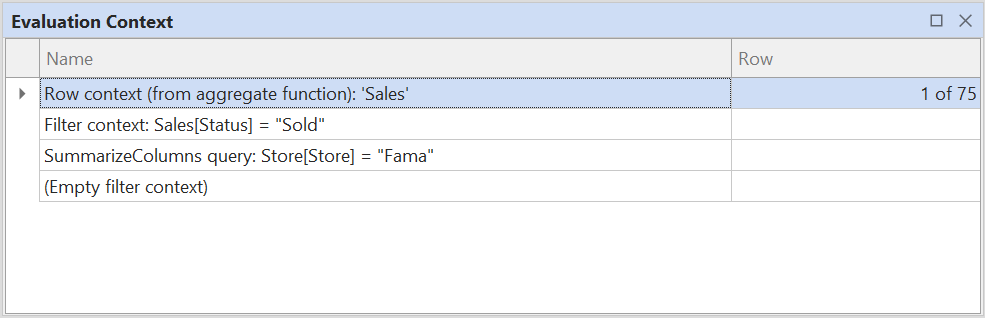
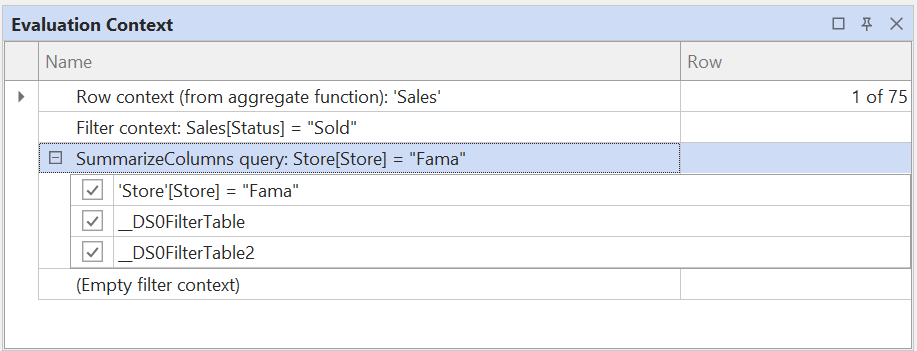
Updated docs for 3.2.2

Changed region(s): [[0.0, 0.0, 1.0, 0.9906]]

diff --git a/te3/other/downloads.md b/te3/other/downloads.md
@@ -2,7 +2,7 @@
 uid: downloads
 title: All downloads
 author: Daniel Otykier
-updated: 2021-11-23
+updated: 2022-02-16
 ---
 # Tabular Editor 3 Downloads
 
@@ -10,23 +10,27 @@ This page provides download and installation instructions for Tabular Editor 3.
 
 ## Production builds
 
-- Latest production release (x64): [TabularEditor.3.2.1.x64.msi](https://cdn.tabulareditor.com/files/TabularEditor.3.2.1.x64.msi)
-- Latest production release (x86): [TabularEditor.3.2.1.x86.msi](https://cdn.tabulareditor.com/files/TabularEditor.3.2.1.x86.msi)
-- Portable version: [TabularEditor.3.2.1.x64.zip](https://cdn.tabulareditor.com/files/TabularEditor.3.2.1.x64.zip), [TabularEditor.3.2.1.x86.zip](https://cdn.tabulareditor.com/files/TabularEditor.3.2.1.x86.zip)
+- Latest production release (x64): [TabularEditor.3.2.2.x64.msi](https://cdn.tabulareditor.com/files/TabularEditor.3.2.2.x64.msi)
+- Latest production release (x86): [TabularEditor.3.2.2.x86.msi](https://cdn.tabulareditor.com/files/TabularEditor.3.2.2.x86.msi)
+- Portable version: [TabularEditor.3.2.2.x64.zip](https://cdn.tabulareditor.com/files/TabularEditor.3.2.2.x64.zip), [TabularEditor.3.2.2.x86.zip](https://cdn.tabulareditor.com/files/TabularEditor.3.2.2.x86.zip)
 
-[Release notes for Tabular Editor 3.2.1](release-notes/3_2_1.md)
-
-If you need to change your license key, you can do so under Help > About Tabular Editor (before opening a model in Tabular Editor 3).
+Read the [latest release notes](release-notes/3_2_2.md).
 
 ## Installation Instructions
 
 1. Download the MSI file (use the x86 version if your operating system doesn't support 64-bit applications).
 2. Run the MSI file. The installation wizard will guide you through the installation.
+3. For instructions on how to activate the product or change a license key, see our [getting started guide](https://docs.tabulareditor.com/te3/getting-started.html).
 
 It is not necessary to remove previous installations when upgrading to a newer version of Tabular Editor 3.
 
 ## History
 
+- 2021-02-16 (*[Release notes](release-notes/3_2_2.md)*):
+  - [TabularEditor.3.2.2.x64.msi](https://cdn.tabulareditor.com/files/TabularEditor.3.2.2.x64.msi)
+  - [TabularEditor.3.2.2.x86.msi](https://cdn.tabulareditor.com/files/TabularEditor.3.2.2.x86.msi)
+  - [TabularEditor.3.2.2.x64.zip](https://cdn.tabulareditor.com/files/TabularEditor.3.2.2.x64.zip)
+  - [TabularEditor.3.2.2.x86.zip](https://cdn.tabulareditor.com/files/TabularEditor.3.2.2.x86.zip)
 - 2021-01-28 (*[Release notes](release-notes/3_2_1.md)*):
   - [TabularEditor.3.2.1.x64.msi](https://cdn.tabulareditor.com/files/TabularEditor.3.2.1.x64.msi)
   - [TabularEditor.3.2.1.x86.msi](https://cdn.tabulareditor.com/files/TabularEditor.3.2.1.x86.msi)
@@ -37,104 +41,5 @@ It is not necessary to remove previous installations when upgrading to a newer v
   - [TabularEditor.3.2.0.x86.msi](https://cdn.tabulareditor.com/files/TabularEditor.3.2.0.x86.msi)
   - [TabularEditor.3.2.0.x64.zip](https://cdn.tabulareditor.com/files/TabularEditor.3.2.0.x64.zip)
   - [TabularEditor.3.2.0.x86.zip](https://cdn.tabulareditor.com/files/TabularEditor.3.2.0.x86.zip)
-- 2021-12-16 (*[Release notes](release-notes/3_1_7.md)*):
-  - [TabularEditor.3.1.7.x64.msi](https://cdn.tabulareditor.com/files/TabularEditor.3.1.7.x64.msi)
-  - [TabularEditor.3.1.7.x86.msi](https://cdn.tabulareditor.com/files/TabularEditor.3.1.7.x86.msi)
-  - [TabularEditor.3.1.7.x64.zip](https://cdn.tabulareditor.com/files/TabularEditor.3.1.7.x64.zip)
-  - [TabularEditor.3.1.7.x86.zip](https://cdn.tabulareditor.com/files/TabularEditor.3.1.7.x86.zip)
-- 2021-11-23 (*[Release notes](release-notes/3_1_6.md)*):
-  - [TabularEditor.3.1.6.x64.msi](https://cdn.tabulareditor.com/files/TabularEditor.3.1.6.x64.msi)
-  - [TabularEditor.3.1.6.x86.msi](https://cdn.tabulareditor.com/files/TabularEditor.3.1.6.x86.msi)
-  - [TabularEditor.3.1.6.x64.zip](https://cdn.tabulareditor.com/files/TabularEditor.3.1.6.x64.zip)
-  - [TabularEditor.3.1.6.x86.zip](https://cdn.tabulareditor.com/files/TabularEditor.3.1.6.x86.zip)
-- 2021-11-02 (*[Release notes](release-notes/3_1_5.md)*):
-  - [TabularEditor.3.1.5.x64.msi](https://cdn.tabulareditor.com/files/TabularEditor.3.1.5.x64.msi)
-  - [TabularEditor.3.1.5.x86.msi](https://cdn.tabulareditor.com/files/TabularEditor.3.1.5.x86.msi)
-  - [TabularEditor.3.1.5.x64.zip](https://cdn.tabulareditor.com/files/TabularEditor.3.1.5.x64.zip)
-  - [TabularEditor.3.1.5.x86.zip](https://cdn.tabulareditor.com/files/TabularEditor.3.1.5.x86.zip)
-- 2021-10-07 (*[Release notes](release-notes/3_1_4.md)*):
-  - [TabularEditor.3.1.4.x64.msi](https://cdn.tabulareditor.com/files/TabularEditor.3.1.4.x64.msi)
-  - [TabularEditor.3.1.4.x86.msi](https://cdn.tabulareditor.com/files/TabularEditor.3.1.4.x86.msi)
-  - [TabularEditor.3.1.4.x64.zip](https://cdn.tabulareditor.com/files/TabularEditor.3.1.4.x64.zip)
-  - [TabularEditor.3.1.4.x86.zip](https://cdn.tabulareditor.com/files/TabularEditor.3.1.4.x86.zip)
-- 2021-09-30 (*[Release notes](release-notes/3_1_3.md)*):
-  - [TabularEditor.3.1.3.x64.msi](https://cdn.tabulareditor.com/files/TabularEditor.3.1.3.x64.msi)
-  - [TabularEditor.3.1.3.x86.msi](https://cdn.tabulareditor.com/files/TabularEditor.3.1.3.x86.msi)
-  - [TabularEditor.3.1.3.x64.zip](https://cdn.tabulareditor.com/files/TabularEditor.3.1.3.x64.zip)
-  - [TabularEditor.3.1.3.x86.zip](https://cdn.tabulareditor.com/files/TabularEditor.3.1.3.x86.zip)
-- 2021-08-10 (*[Release notes](release-notes/3_0_10.md)*):
-  - [TabularEditor.3.0.10.x64.msi](https://cdn.tabulareditor.com/files/TabularEditor.3.0.10.x64.msi)
-  - [TabularEditor.3.0.10.x86.msi](https://cdn.tabulareditor.com/files/TabularEditor.3.0.10.x86.msi)
-  - [TabularEditor.3.0.10.x64.zip](https://cdn.tabulareditor.com/files/TabularEditor.3.0.10.x64.zip)
-  - [TabularEditor.3.0.10.x86.zip](https://cdn.tabulareditor.com/files/TabularEditor.3.0.10.x86.zip)
-- 2021-08-07 (*[Release notes](release-notes/3_0_9.md)*):
-  - [TabularEditor.3.0.9.x64.msi](https://cdn.tabulareditor.com/files/TabularEditor.3.0.9.x64.msi)
-  - [TabularEditor.3.0.9.x86.msi](https://cdn.tabulareditor.com/files/TabularEditor.3.0.9.x86.msi)
-  - [TabularEditor.3.0.9.x64.zip](https://cdn.tabulareditor.com/files/TabularEditor.3.0.9.x64.zip)
-  - [TabularEditor.3.0.9.x86.zip](https://cdn.tabulareditor.com/files/TabularEditor.3.0.9.x86.zip)
-- 2021-08-06 (*[Release notes](release-notes/3_0_8.md)*):
-  - [TabularEditor.3.0.8.x64.msi](https://cdn.tabulareditor.com/files/TabularEditor.3.0.8.x64.msi)
-  - [TabularEditor.3.0.8.x86.msi](https://cdn.tabulareditor.com/files/TabularEditor.3.0.8.x86.msi)
-  - [TabularEditor.3.0.8.x64.zip](https://cdn.tabulareditor.com/files/TabularEditor.3.0.8.x64.zip)
-  - [TabularEditor.3.0.8.x86.zip](https://cdn.tabulareditor.com/files/TabularEditor.3.0.8.x86.zip)
-- 2021-06-30 (*[Release notes](release-notes/3_0_7.md)*):
-  - [TabularEditor.3.0.7.x64.msi](https://cdn.tabulareditor.com/files/TabularEditor.3.0.7.x64.msi)
-  - [TabularEditor.3.0.7.x86.msi](https://cdn.tabulareditor.com/files/TabularEditor.3.0.7.x86.msi)
-  - [TabularEditor.3.0.7.x64.zip](https://cdn.tabulareditor.com/files/TabularEditor.3.0.7.x64.zip)
-  - [TabularEditor.3.0.7.x86.zip](https://cdn.tabulareditor.com/files/TabularEditor.3.0.7.x86.zip)
-- 2021-06-17 (*[Release notes](release-notes/3_0_6.md)*):
-  - [TabularEditor.3.0.6.x64.msi](https://cdn.tabulareditor.com/files/TabularEditor.3.0.6.x64.msi)
-  - [TabularEditor.3.0.6.x86.msi](https://cdn.tabulareditor.com/files/TabularEditor.3.0.6.x86.msi)
-  - [TabularEditor.3.0.6.x64.zip](https://cdn.tabulareditor.com/files/TabularEditor.3.0.6.x64.zip)
-  - [TabularEditor.3.0.6.x86.zip](https://cdn.tabulareditor.com/files/TabularEditor.3.0.6.x86.zip)
-- 2021-06-10 (*[Release notes](release-notes/3_0_5.md)*):
-  - [TabularEditor.3.0.5.x64.msi](https://cdn.tabulareditor.com/files/TabularEditor.3.0.5.x64.msi)
-  - [TabularEditor.3.0.5.x86.msi](https://cdn.tabulareditor.com/files/TabularEditor.3.0.5.x86.msi)
-- 2021-06-08 (*[Release notes](release-notes/3_0_4.md)*):
-  - [TabularEditor.3.0.4.x64.msi](https://cdn.tabulareditor.com/files/TabularEditor.3.0.4.x64.msi)
-  - [TabularEditor.3.0.4.x86.msi](https://cdn.tabulareditor.com/files/TabularEditor.3.0.4.x86.msi)
-- 2021-06-03 (*[Release notes](release-notes/3_0_2.md)*):
-  - [TabularEditor.3.0.2.x64.msi](https://cdn.tabulareditor.com/files/TabularEditor.3.0.2.x64.msi)
-  - [TabularEditor.3.0.2.x86.msi](https://cdn.tabulareditor.com/files/TabularEditor.3.0.2.x86.msi)
-- 2021-06-01 (*[Release notes](release-notes/3_0_1.md)*):
-  - [TabularEditor.3.0.1.x64.msi](https://cdn.tabulareditor.com/files/TabularEditor.3.0.1.x64.msi)
-  - [TabularEditor.3.0.1.x86.msi](https://cdn.tabulareditor.com/files/TabularEditor.3.0.1.x86.msi)
-- 2021-05-27 (*[Release notes](release-notes/beta-18_5.md)*):
-  - [TabularEditor.3.BETA-18.5.x64.msi](https://cdn.tabulareditor.com/files/TabularEditor.3.BETA-18.5.x64.msi)
-  - [TabularEditor.3.BETA-18.5.x86.msi](https://cdn.tabulareditor.com/files/TabularEditor.3.BETA-18.5.x86.msi)
-- 2021-05-03 (*[Release notes](release-notes/beta-18_4.md)*):
-  - [TabularEditor.3.BETA-18.4.x64.msi](https://cdn.tabulareditor.com/files/TabularEditor.3.BETA-18.4.x64.msi)
-  - [TabularEditor.3.BETA-18.4.x86.msi](https://cdn.tabulareditor.com/files/TabularEditor.3.BETA-18.4.x86.msi)
-- 2021-04-27 (*[Release notes](release-notes/beta-18_3.md)*):
-  - [TabularEditor.3.BETA-18.3.x64.msi](https://cdn.tabulareditor.com/files/TabularEditor.3.BETA-18.3.x64.msi)
-  - [TabularEditor.3.BETA-18.3.x86.msi](https://cdn.tabulareditor.com/files/TabularEditor.3.BETA-18.3.x86.msi)
-- 2021-04-26 (*[Release notes](release-notes/beta-18_3.md)*):
-  - [TabularEditor.3.BETA-18.2.x64.msi](https://cdn.tabulareditor.com/files/TabularEditor.3.BETA-18.2.x64.msi)
-  - [TabularEditor.3.BETA-18.2.x86.msi](https://cdn.tabulareditor.com/files/TabularEditor.3.BETA-18.2.x86.msi)
-- 2021-04-25 (*[Release notes](release-notes/beta-18_3.md)*):
-  - [TabularEditor.3.BETA-18.1.x64.msi](https://cdn.tabulareditor.com/files/TabularEditor.3.BETA-18.1.x64.msi)
-  - [TabularEditor.3.BETA-18.1.x86.msi](https://cdn.tabulareditor.com/files/TabularEditor.3.BETA-18.1.x86.msi)
-  - [TabularEditor.3.BETA-18.0.x64.msi](https://cdn.tabulareditor.com/files/TabularEditor.3.BETA-18.0.x64.msi)
-  - [TabularEditor.3.BETA-18.0.x86.msi](https://cdn.tabulareditor.com/files/TabularEditor.3.BETA-18.0.x86.msi)
-- BETA-17.X builds - 2021-04-18-2021.03.29 (*[Release notes](release-notes/beta-17_4.md)*)
-  - [TabularEditor.3.BETA-17.4.x64.msi](https://cdn.tabulareditor.com/files/TabularEditor.3.BETA-17.4.x64.msi)
-  - [TabularEditor.3.BETA-17.4.x86.msi](https://cdn.tabulareditor.com/files/TabularEditor.3.BETA-17.4.x86.msi)
-  - [TabularEditor.3.BETA-17.3.x64.msi](https://cdn.tabulareditor.com/files/TabularEditor.3.BETA-17.3.x64.msi)
-  - [TabularEditor.3.BETA-17.3.x86.msi](https://cdn.tabulareditor.com/files/TabularEditor.3.BETA-17.3.x86.msi)
-  - [TabularEditor.3.BETA-17.2.x64.msi](https://cdn.tabulareditor.com/files/TabularEditor.3.BETA-17.2.x64.msi)
-  - [TabularEditor.3.BETA-17.2.x86.msi](https://cdn.tabulareditor.com/files/TabularEditor.3.BETA-17.2.x86.msi)
-  - [TabularEditor.3.BETA-17.1.x64.msi](https://cdn.tabulareditor.com/files/TabularEditor.3.BETA-17.1.x64.msi)
-  - [TabularEditor.3.BETA-17.1.x86.msi](https://cdn.tabulareditor.com/files/TabularEditor.3.BETA-17.1.x86.msi)
-  - [TabularEditor.3.BETA-17.0.x64.msi](https://cdn.tabulareditor.com/files/TabularEditor.3.BETA-17.0.x64.msi)
-  - [TabularEditor.3.BETA-17.0.x86.msi](https://cdn.tabulareditor.com/files/TabularEditor.3.BETA-17.0.x86.msi)
-- BETA-16.X builds - 2021.01.01-2021.03.18 (*[Release notes](release-notes/beta-16_6.md)*):
-  - [TabularEditor.3.BETA-16.6.x64.msi](https://cdn.tabulareditor.com/files/TabularEditor.3.BETA-16.6.x64.msi)
-  - [TabularEditor.3.BETA-16.6.x86.msi](https://cdn.tabulareditor.com/files/TabularEditor.3.BETA-16.6.x86.msi)
-  - [TabularEditor.3.BETA-16.5.x64.msi](https://cdn.tabulareditor.com/files/TabularEditor.3.BETA-16.5.x64.msi)
-  - [TabularEditor.3.BETA-16.5.x86.msi](https://cdn.tabulareditor.com/files/TabularEditor.3.BETA-16.5.x86.msi)
-  - [TabularEditor.3.BETA-16.4.x64.msi](https://cdn.tabulareditor.com/files/TabularEditor.3.BETA-16.4.x64.msi)
-  - [TabularEditor.3.BETA-16.4.x86.msi](https://cdn.tabulareditor.com/files/TabularEditor.3.BETA-16.4.x86.msi)
-  - [TabularEditor.3.BETA-16.3.msi](https://cdn.tabulareditor.com/files/TabularEditor.3.BETA-16.3.msi)
-  - [TabularEditor.3.BETA-16.2.msi](https://cdn.tabulareditor.com/files/TabularEditor.3.BETA-16.2.msi)
-  - [TabularEditor.3.BETA-16.1.msi](https://cdn.tabulareditor.com/files/TabularEditor.3.BETA-16.1.msi)
-  - [TabularEditor.3.BETA-16.0.msi](https://cdn.tabulareditor.com/files/TabularEditor.3.BETA-16.0.msi)
+
+For pre-3.2.0 builds, see the [full release history](release-history.md).

diff --git a/te3/other/release-history.md b/te3/other/release-history.md
@@ -1,0 +1,118 @@
+# Full release history
+
+- 2021-02-16 (*[Release notes](release-notes/3_2_2.md)*):
+  - [TabularEditor.3.2.2.x64.msi](https://cdn.tabulareditor.com/files/TabularEditor.3.2.2.x64.msi)
+  - [TabularEditor.3.2.2.x86.msi](https://cdn.tabulareditor.com/files/TabularEditor.3.2.2.x86.msi)
+  - [TabularEditor.3.2.2.x64.zip](https://cdn.tabulareditor.com/files/TabularEditor.3.2.2.x64.zip)
+  - [TabularEditor.3.2.2.x86.zip](https://cdn.tabulareditor.com/files/TabularEditor.3.2.2.x86.zip)
+- 2021-01-28 (*[Release notes](release-notes/3_2_1.md)*):
+  - [TabularEditor.3.2.1.x64.msi](https://cdn.tabulareditor.com/files/TabularEditor.3.2.1.x64.msi)
+  - [TabularEditor.3.2.1.x86.msi](https://cdn.tabulareditor.com/files/TabularEditor.3.2.1.x86.msi)
+  - [TabularEditor.3.2.1.x64.zip](https://cdn.tabulareditor.com/files/TabularEditor.3.2.1.x64.zip)
+  - [TabularEditor.3.2.1.x86.zip](https://cdn.tabulareditor.com/files/TabularEditor.3.2.1.x86.zip)
+- 2021-01-20 (*[Release notes](release-notes/3_2_0.md)*):
+  - [TabularEditor.3.2.0.x64.msi](https://cdn.tabulareditor.com/files/TabularEditor.3.2.0.x64.msi)
+  - [TabularEditor.3.2.0.x86.msi](https://cdn.tabulareditor.com/files/TabularEditor.3.2.0.x86.msi)
+  - [TabularEditor.3.2.0.x64.zip](https://cdn.tabulareditor.com/files/TabularEditor.3.2.0.x64.zip)
+  - [TabularEditor.3.2.0.x86.zip](https://cdn.tabulareditor.com/files/TabularEditor.3.2.0.x86.zip)
+- 2021-12-16 (*[Release notes](release-notes/3_1_7.md)*):
+  - [TabularEditor.3.1.7.x64.msi](https://cdn.tabulareditor.com/files/TabularEditor.3.1.7.x64.msi)
+  - [TabularEditor.3.1.7.x86.msi](https://cdn.tabulareditor.com/files/TabularEditor.3.1.7.x86.msi)
+  - [TabularEditor.3.1.7.x64.zip](https://cdn.tabulareditor.com/files/TabularEditor.3.1.7.x64.zip)
+  - [TabularEditor.3.1.7.x86.zip](https://cdn.tabulareditor.com/files/TabularEditor.3.1.7.x86.zip)
+- 2021-11-23 (*[Release notes](release-notes/3_1_6.md)*):
+  - [TabularEditor.3.1.6.x64.msi](https://cdn.tabulareditor.com/files/TabularEditor.3.1.6.x64.msi)
+  - [TabularEditor.3.1.6.x86.msi](https://cdn.tabulareditor.com/files/TabularEditor.3.1.6.x86.msi)
+  - [TabularEditor.3.1.6.x64.zip](https://cdn.tabulareditor.com/files/TabularEditor.3.1.6.x64.zip)
+  - [TabularEditor.3.1.6.x86.zip](https://cdn.tabulareditor.com/files/TabularEditor.3.1.6.x86.zip)
+- 2021-11-02 (*[Release notes](release-notes/3_1_5.md)*):
+  - [TabularEditor.3.1.5.x64.msi](https://cdn.tabulareditor.com/files/TabularEditor.3.1.5.x64.msi)
+  - [TabularEditor.3.1.5.x86.msi](https://cdn.tabulareditor.com/files/TabularEditor.3.1.5.x86.msi)
+  - [TabularEditor.3.1.5.x64.zip](https://cdn.tabulareditor.com/files/TabularEditor.3.1.5.x64.zip)
+  - [TabularEditor.3.1.5.x86.zip](https://cdn.tabulareditor.com/files/TabularEditor.3.1.5.x86.zip)
+- 2021-10-07 (*[Release notes](release-notes/3_1_4.md)*):
+  - [TabularEditor.3.1.4.x64.msi](https://cdn.tabulareditor.com/files/TabularEditor.3.1.4.x64.msi)
+  - [TabularEditor.3.1.4.x86.msi](https://cdn.tabulareditor.com/files/TabularEditor.3.1.4.x86.msi)
+  - [TabularEditor.3.1.4.x64.zip](https://cdn.tabulareditor.com/files/TabularEditor.3.1.4.x64.zip)
+  - [TabularEditor.3.1.4.x86.zip](https://cdn.tabulareditor.com/files/TabularEditor.3.1.4.x86.zip)
+- 2021-09-30 (*[Release notes](release-notes/3_1_3.md)*):
+  - [TabularEditor.3.1.3.x64.msi](https://cdn.tabulareditor.com/files/TabularEditor.3.1.3.x64.msi)
+  - [TabularEditor.3.1.3.x86.msi](https://cdn.tabulareditor.com/files/TabularEditor.3.1.3.x86.msi)
+  - [TabularEditor.3.1.3.x64.zip](https://cdn.tabulareditor.com/files/TabularEditor.3.1.3.x64.zip)
+  - [TabularEditor.3.1.3.x86.zip](https://cdn.tabulareditor.com/files/TabularEditor.3.1.3.x86.zip)
+- 2021-08-10 (*[Release notes](release-notes/3_0_10.md)*):
+  - [TabularEditor.3.0.10.x64.msi](https://cdn.tabulareditor.com/files/TabularEditor.3.0.10.x64.msi)
+  - [TabularEditor.3.0.10.x86.msi](https://cdn.tabulareditor.com/files/TabularEditor.3.0.10.x86.msi)
+  - [TabularEditor.3.0.10.x64.zip](https://cdn.tabulareditor.com/files/TabularEditor.3.0.10.x64.zip)
+  - [TabularEditor.3.0.10.x86.zip](https://cdn.tabulareditor.com/files/TabularEditor.3.0.10.x86.zip)
+- 2021-08-07 (*[Release notes](release-notes/3_0_9.md)*):
+  - [TabularEditor.3.0.9.x64.msi](https://cdn.tabulareditor.com/files/TabularEditor.3.0.9.x64.msi)
+  - [TabularEditor.3.0.9.x86.msi](https://cdn.tabulareditor.com/files/TabularEditor.3.0.9.x86.msi)
+  - [TabularEditor.3.0.9.x64.zip](https://cdn.tabulareditor.com/files/TabularEditor.3.0.9.x64.zip)
+  - [TabularEditor.3.0.9.x86.zip](https://cdn.tabulareditor.com/files/TabularEditor.3.0.9.x86.zip)
+- 2021-08-06 (*[Release notes](release-notes/3_0_8.md)*):
+  - [TabularEditor.3.0.8.x64.msi](https://cdn.tabulareditor.com/files/TabularEditor.3.0.8.x64.msi)
+  - [TabularEditor.3.0.8.x86.msi](https://cdn.tabulareditor.com/files/TabularEditor.3.0.8.x86.msi)
+  - [TabularEditor.3.0.8.x64.zip](https://cdn.tabulareditor.com/files/TabularEditor.3.0.8.x64.zip)
+  - [TabularEditor.3.0.8.x86.zip](https://cdn.tabulareditor.com/files/TabularEditor.3.0.8.x86.zip)
+- 2021-06-30 (*[Release notes](release-notes/3_0_7.md)*):
+  - [TabularEditor.3.0.7.x64.msi](https://cdn.tabulareditor.com/files/TabularEditor.3.0.7.x64.msi)
+  - [TabularEditor.3.0.7.x86.msi](https://cdn.tabulareditor.com/files/TabularEditor.3.0.7.x86.msi)
+  - [TabularEditor.3.0.7.x64.zip](https://cdn.tabulareditor.com/files/TabularEditor.3.0.7.x64.zip)
+  - [TabularEditor.3.0.7.x86.zip](https://cdn.tabulareditor.com/files/TabularEditor.3.0.7.x86.zip)
+- 2021-06-17 (*[Release notes](release-notes/3_0_6.md)*):
+  - [TabularEditor.3.0.6.x64.msi](https://cdn.tabulareditor.com/files/TabularEditor.3.0.6.x64.msi)
+  - [TabularEditor.3.0.6.x86.msi](https://cdn.tabulareditor.com/files/TabularEditor.3.0.6.x86.msi)
+  - [TabularEditor.3.0.6.x64.zip](https://cdn.tabulareditor.com/files/TabularEditor.3.0.6.x64.zip)
+  - [TabularEditor.3.0.6.x86.zip](https://cdn.tabulareditor.com/files/TabularEditor.3.0.6.x86.zip)
+- 2021-06-10 (*[Release notes](release-notes/3_0_5.md)*):
+  - [TabularEditor.3.0.5.x64.msi](https://cdn.tabulareditor.com/files/TabularEditor.3.0.5.x64.msi)
+  - [TabularEditor.3.0.5.x86.msi](https://cdn.tabulareditor.com/files/TabularEditor.3.0.5.x86.msi)
+- 2021-06-08 (*[Release notes](release-notes/3_0_4.md)*):
+  - [TabularEditor.3.0.4.x64.msi](https://cdn.tabulareditor.com/files/TabularEditor.3.0.4.x64.msi)
+  - [TabularEditor.3.0.4.x86.msi](https://cdn.tabulareditor.com/files/TabularEditor.3.0.4.x86.msi)
+- 2021-06-03 (*[Release notes](release-notes/3_0_2.md)*):
+  - [TabularEditor.3.0.2.x64.msi](https://cdn.tabulareditor.com/files/TabularEditor.3.0.2.x64.msi)
+  - [TabularEditor.3.0.2.x86.msi](https://cdn.tabulareditor.com/files/TabularEditor.3.0.2.x86.msi)
+- 2021-06-01 (*[Release notes](release-notes/3_0_1.md)*):
+  - [TabularEditor.3.0.1.x64.msi](https://cdn.tabulareditor.com/files/TabularEditor.3.0.1.x64.msi)
+  - [TabularEditor.3.0.1.x86.msi](https://cdn.tabulareditor.com/files/TabularEditor.3.0.1.x86.msi)
+- 2021-05-27 (*[Release notes](release-notes/beta-18_5.md)*):
+  - [TabularEditor.3.BETA-18.5.x64.msi](https://cdn.tabulareditor.com/files/TabularEditor.3.BETA-18.5.x64.msi)
+  - [TabularEditor.3.BETA-18.5.x86.msi](https://cdn.tabulareditor.com/files/TabularEditor.3.BETA-18.5.x86.msi)
+- 2021-05-03 (*[Release notes](release-notes/beta-18_4.md)*):
+  - [TabularEditor.3.BETA-18.4.x64.msi](https://cdn.tabulareditor.com/files/TabularEditor.3.BETA-18.4.x64.msi)
+  - [TabularEditor.3.BETA-18.4.x86.msi](https://cdn.tabulareditor.com/files/TabularEditor.3.BETA-18.4.x86.msi)
+- 2021-04-27 (*[Release notes](release-notes/beta-18_3.md)*):
+  - [TabularEditor.3.BETA-18.3.x64.msi](https://cdn.tabulareditor.com/files/TabularEditor.3.BETA-18.3.x64.msi)
+  - [TabularEditor.3.BETA-18.3.x86.msi](https://cdn.tabulareditor.com/files/TabularEditor.3.BETA-18.3.x86.msi)
+- 2021-04-26 (*[Release notes](release-notes/beta-18_3.md)*):
+  - [TabularEditor.3.BETA-18.2.x64.msi](https://cdn.tabulareditor.com/files/TabularEditor.3.BETA-18.2.x64.msi)
+  - [TabularEditor.3.BETA-18.2.x86.msi](https://cdn.tabulareditor.com/files/TabularEditor.3.BETA-18.2.x86.msi)
+- 2021-04-25 (*[Release notes](release-notes/beta-18_3.md)*):
+  - [TabularEditor.3.BETA-18.1.x64.msi](https://cdn.tabulareditor.com/files/TabularEditor.3.BETA-18.1.x64.msi)
+  - [TabularEditor.3.BETA-18.1.x86.msi](https://cdn.tabulareditor.com/files/TabularEditor.3.BETA-18.1.x86.msi)
+  - [TabularEditor.3.BETA-18.0.x64.msi](https://cdn.tabulareditor.com/files/TabularEditor.3.BETA-18.0.x64.msi)
+  - [TabularEditor.3.BETA-18.0.x86.msi](https://cdn.tabulareditor.com/files/TabularEditor.3.BETA-18.0.x86.msi)
+- BETA-17.X builds - 2021-04-18-2021.03.29 (*[Release notes](release-notes/beta-17_4.md)*)
+  - [TabularEditor.3.BETA-17.4.x64.msi](https://cdn.tabulareditor.com/files/TabularEditor.3.BETA-17.4.x64.msi)
+  - [TabularEditor.3.BETA-17.4.x86.msi](https://cdn.tabulareditor.com/files/TabularEditor.3.BETA-17.4.x86.msi)
+  - [TabularEditor.3.BETA-17.3.x64.msi](https://cdn.tabulareditor.com/files/TabularEditor.3.BETA-17.3.x64.msi)
+  - [TabularEditor.3.BETA-17.3.x86.msi](https://cdn.tabulareditor.com/files/TabularEditor.3.BETA-17.3.x86.msi)
+  - [TabularEditor.3.BETA-17.2.x64.msi](https://cdn.tabulareditor.com/files/TabularEditor.3.BETA-17.2.x64.msi)
+  - [TabularEditor.3.BETA-17.2.x86.msi](https://cdn.tabulareditor.com/files/TabularEditor.3.BETA-17.2.x86.msi)
+  - [TabularEditor.3.BETA-17.1.x64.msi](https://cdn.tabulareditor.com/files/TabularEditor.3.BETA-17.1.x64.msi)
+  - [TabularEditor.3.BETA-17.1.x86.msi](https://cdn.tabulareditor.com/files/TabularEditor.3.BETA-17.1.x86.msi)
+  - [TabularEditor.3.BETA-17.0.x64.msi](https://cdn.tabulareditor.com/files/TabularEditor.3.BETA-17.0.x64.msi)
+  - [TabularEditor.3.BETA-17.0.x86.msi](https://cdn.tabulareditor.com/files/TabularEditor.3.BETA-17.0.x86.msi)
+- BETA-16.X builds - 2021.01.01-2021.03.18 (*[Release notes](release-notes/beta-16_6.md)*):
+  - [TabularEditor.3.BETA-16.6.x64.msi](https://cdn.tabulareditor.com/files/TabularEditor.3.BETA-16.6.x64.msi)
+  - [TabularEditor.3.BETA-16.6.x86.msi](https://cdn.tabulareditor.com/files/TabularEditor.3.BETA-16.6.x86.msi)
+  - [TabularEditor.3.BETA-16.5.x64.msi](https://cdn.tabulareditor.com/files/TabularEditor.3.BETA-16.5.x64.msi)
+  - [TabularEditor.3.BETA-16.5.x86.msi](https://cdn.tabulareditor.com/files/TabularEditor.3.BETA-16.5.x86.msi)
+  - [TabularEditor.3.BETA-16.4.x64.msi](https://cdn.tabulareditor.com/files/TabularEditor.3.BETA-16.4.x64.msi)
+  - [TabularEditor.3.BETA-16.4.x86.msi](https://cdn.tabulareditor.com/files/TabularEditor.3.BETA-16.4.x86.msi)
+  - [TabularEditor.3.BETA-16.3.msi](https://cdn.tabulareditor.com/files/TabularEditor.3.BETA-16.3.msi)
+  - [TabularEditor.3.BETA-16.2.msi](https://cdn.tabulareditor.com/files/TabularEditor.3.BETA-16.2.msi)
+  - [TabularEditor.3.BETA-16.1.msi](https://cdn.tabulareditor.com/files/TabularEditor.3.BETA-16.1.msi)
+  - [TabularEditor.3.BETA-16.0.msi](https://cdn.tabulareditor.com/files/TabularEditor.3.BETA-16.0.msi)

diff --git a/te3/other/release-notes/3_2_2.md b/te3/other/release-notes/3_2_2.md
@@ -1,0 +1,72 @@
+# Tabular Editor 3.2.2
+
+- Download [Tabular Editor 3.2.2 (64 bit)](https://cdn.tabulareditor.com/files/TabularEditor.3.2.2.x64.msi) *(recommended)*
+- Download [Tabular Editor 3.2.2](https://cdn.tabulareditor.com/files/TabularEditor.3.2.2.x86.msi)
+- Portable versions: [x64](https://cdn.tabulareditor.com/files/TabularEditor.3.2.2.x64.zip), [x86](https://cdn.tabulareditor.com/files/TabularEditor.3.2.2.x86.zip)
+
+*If you haven't used Tabular Editor 3 before, you are eligible to a 30 day trial, which can be requested after installation. You can also [purchase a license](https://tabulareditor.com/licensing).*
+
+## Improvements in 3.2.2
+
+- Added support for Query Groups (aka. Power Query "folders") on partitions and named expressions
+- Prompt for first partition type. See [#406](https://github.com/TabularEditor/TabularEditor3/issues/406)
+- Aligned display of relationship names to be similar to how VertiPaq Analyzer in DAX Studio displays the names.
+- Allow debug commas in the Expression Editor, see [#407](https://github.com/TabularEditor/TabularEditor3/issues/407)
+- Allow doubleclicking on any expression object in the TOM Explorer (such as partitions) to bring the quick editor into view
+- Changed "Mixed" label to "Hybrid" on tables that contain multiple partitions types
+- Pivot Grid:
+  - Pivot Grid now displays a grand total when slicing on a field that only has a single value (when field is used in the rows/columns area)
+  - Fields added to the Pivot Grid through the TOM Explorer context menu are now added "right-most".- Focus pivot grid cell on right-click
+- DAX debugger improvements:
+  - Can now view and enable/disable individual filters from the outer filter context
+  - Added tooltips for watch/locals value types.
+  - Better determination and ordering of local items from current call (includes subexpressions within the same evaluation context, etc.)
+  - No longer shows a context transition on the evaluation context stack, when debugging a measure reference (step into the measure reference to see the context transition)
+  - No longer use TREATAS against SSAS 2016
+  - Improved F10 (step over) within measures
+  - Improved auto-complete for Watch expression editor (is now able to suggest row context columns, variables, etc.)
+
+## Bugfixes in 3.2.2
+
+- Added more TOM properties, i.e.: Refresh Policy Mode (used to set up Hybrid tables refresh policy)
+- Fix activation wizard hang, see [#419](https://github.com/TabularEditor/TabularEditor3/issues/419) 
+- Make sure custom toolbars can still be dragged/docked and customized after first layout restore. See issue [#413](https://github.com/TabularEditor/TabularEditor3/issues/413) 
+- Fix issue with properties panel not showing when invoking through context menu, see [#375](https://github.com/TabularEditor/TabularEditor3/issues/375) 
+- Prevent crash when navigating to Data Refresh from status bar, see issue [#370](https://github.com/TabularEditor/TabularEditor3/issues/370) 
+- Fixed an issue where application crashes when closing while a refresh is running in the background.
+- Prevent expression editor from appearing when clicking in the Diagram. See issue [#43](https://github.com/TabularEditor/TabularEditor3/issues/43). Also improves behavior of selecting/dragging columns in the diagram view.
+- Added missing fields to VeritPaq Analyzer, see [#372](https://github.com/TabularEditor/TabularEditor3/issues/372)
+- Improved Pivot Grid behavior of calculation group columns. See [#412](https://github.com/TabularEditor/TabularEditor3/issues/412)
+- Ensure Dependency View is updated every time a semantic analysis completes (such as when a model is modified through Power BI), see [#401](https://github.com/TabularEditor/TabularEditor3/issues/401)    
+- Do not suggest calc group functions in auto-complete, unless writing a calc item expression, see issue [#387](https://github.com/TabularEditor/TabularEditor3/issues/387) 
+- Fixed an issue where after uncommenting a selection, "undo" no longer behaves correctly. See [#301](https://github.com/TabularEditor/TabularEditor3/issues/301)    
+- Added shortcuts for comment (Ctrl+Shift+K)/uncomment (Ctrl+Shift+U). See [#371](https://github.com/TabularEditor/TabularEditor3/issues/371)    
+- Added shortcuts (Alt+Up/Down arrow) for moving selected lines up/down in text editors. See [#371](https://github.com/TabularEditor/TabularEditor3/issues/371)    
+- Fix stackoverflow exception when dragging windows around in certain ways. See [#354](https://github.com/TabularEditor/TabularEditor3/issues/354)    
+- Fix bug with macro recorder not stopping when a C# script view is closed, causing subsequent crash when a model object or property is changed.
+- Macro recorder now also produces code for calc item expression changes as well as hierarchy level and calc item ordinal changes. See [#230](https://github.com/TabularEditor/TabularEditor3/issues/230)
+- Debugger: Fix DAX generation for variables in outer filter context, see issue [#418](https://github.com/TabularEditor/TabularEditor3/issues/418)
+- Check for and delete TablePermissions with invalid table references upon model load (previously, TE would not allow loading a model with such invalid references)
+- Clear filter when a field is removed/hidden from a Pivot Grid, see issue [#427](https://github.com/TabularEditor/TabularEditor3/issues/427)
+
+---
+## Coming from Tabular Editor 2.x?
+
+Watch [this video](https://www.youtube.com/watch?v=pt3DdcjfImY) to get an idea of the new features in Tabular Editor 3. Also, make sure to check our [onboarding guide](https://docs.tabulareditor.com/onboarding/index.html).
+
+**Tabular Editor 3 major features overview:**
+- Fully customizable IDE, with multi-monitor, Hi-DPI support and themes
+- New powerful DAX code editor with auto-complete, syntax checking, code folding and much, much more
+- *Workspace mode, allowing you to save your changes to disk and synchronise model metadata to Analysis Services simultaneously
+- *Preview table data with infinite scrolling, create PivotGrids or write DAX queries to browse the model or test calculation logic
+- *Schedule data refreshes
+- Update Table Schemas on both Provider and Structured Data Sources (yes, even for M queries!)
+- Create data model diagrams
+- Create DAX scripts that allow you to edit multiple measures or other calculated objects in a single document
+- Record C# scripts and save as macros (formerly known as "Custom Actions")
+- VertiPaq Analyzer integration
+- *DAX debugger
+
+*=Only while connected to an instance of Analysis Services or Power BI
+
+---

diff --git a/te3/features/dax-debugger.md b/te3/features/dax-debugger.md
@@ -104,6 +104,10 @@ You can double-click on an item in the Evaluation Context stack, to bring the fo
 
 ![Call Tree](../../images/navigating-evaluation-context.gif)
 
+You can also toggle individual filters from the outer filter context (for example, grouping columns on the [`SUMMARIZECOLUMNS`](https://dax.guide/summarizecolumns) call that generated the query or filters specified in a Pivot Grid). This is illustrated in the animation below. Filters toggled this way will apply to both Watch and Locals.
+
+![Call Tree](../../images/toggle-filters.gif)
+
 Lastly, you can browse the first 1000 rows of any iterator, setting the current row context to a specific row within those first 1000, by clicking on the Zoom button within the **Row** column.
 
 ![Browse Row Contexts](../../images/browse-row-contexts.png)
